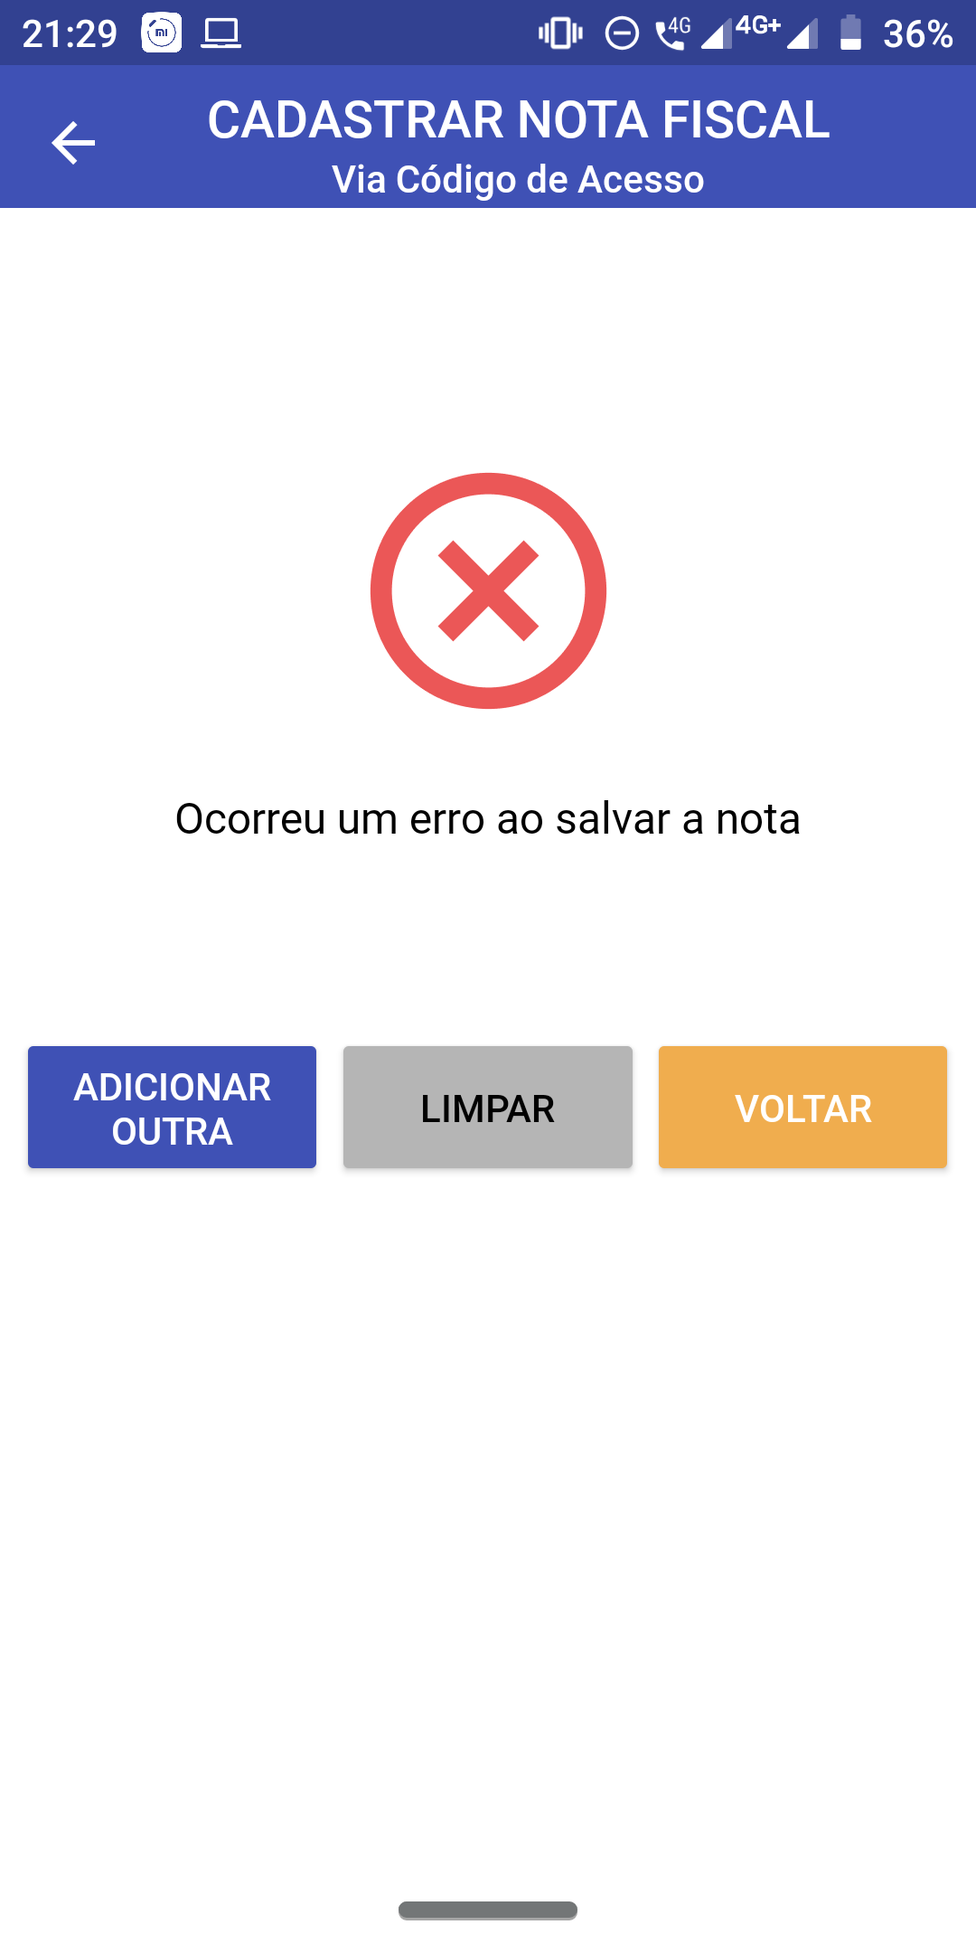
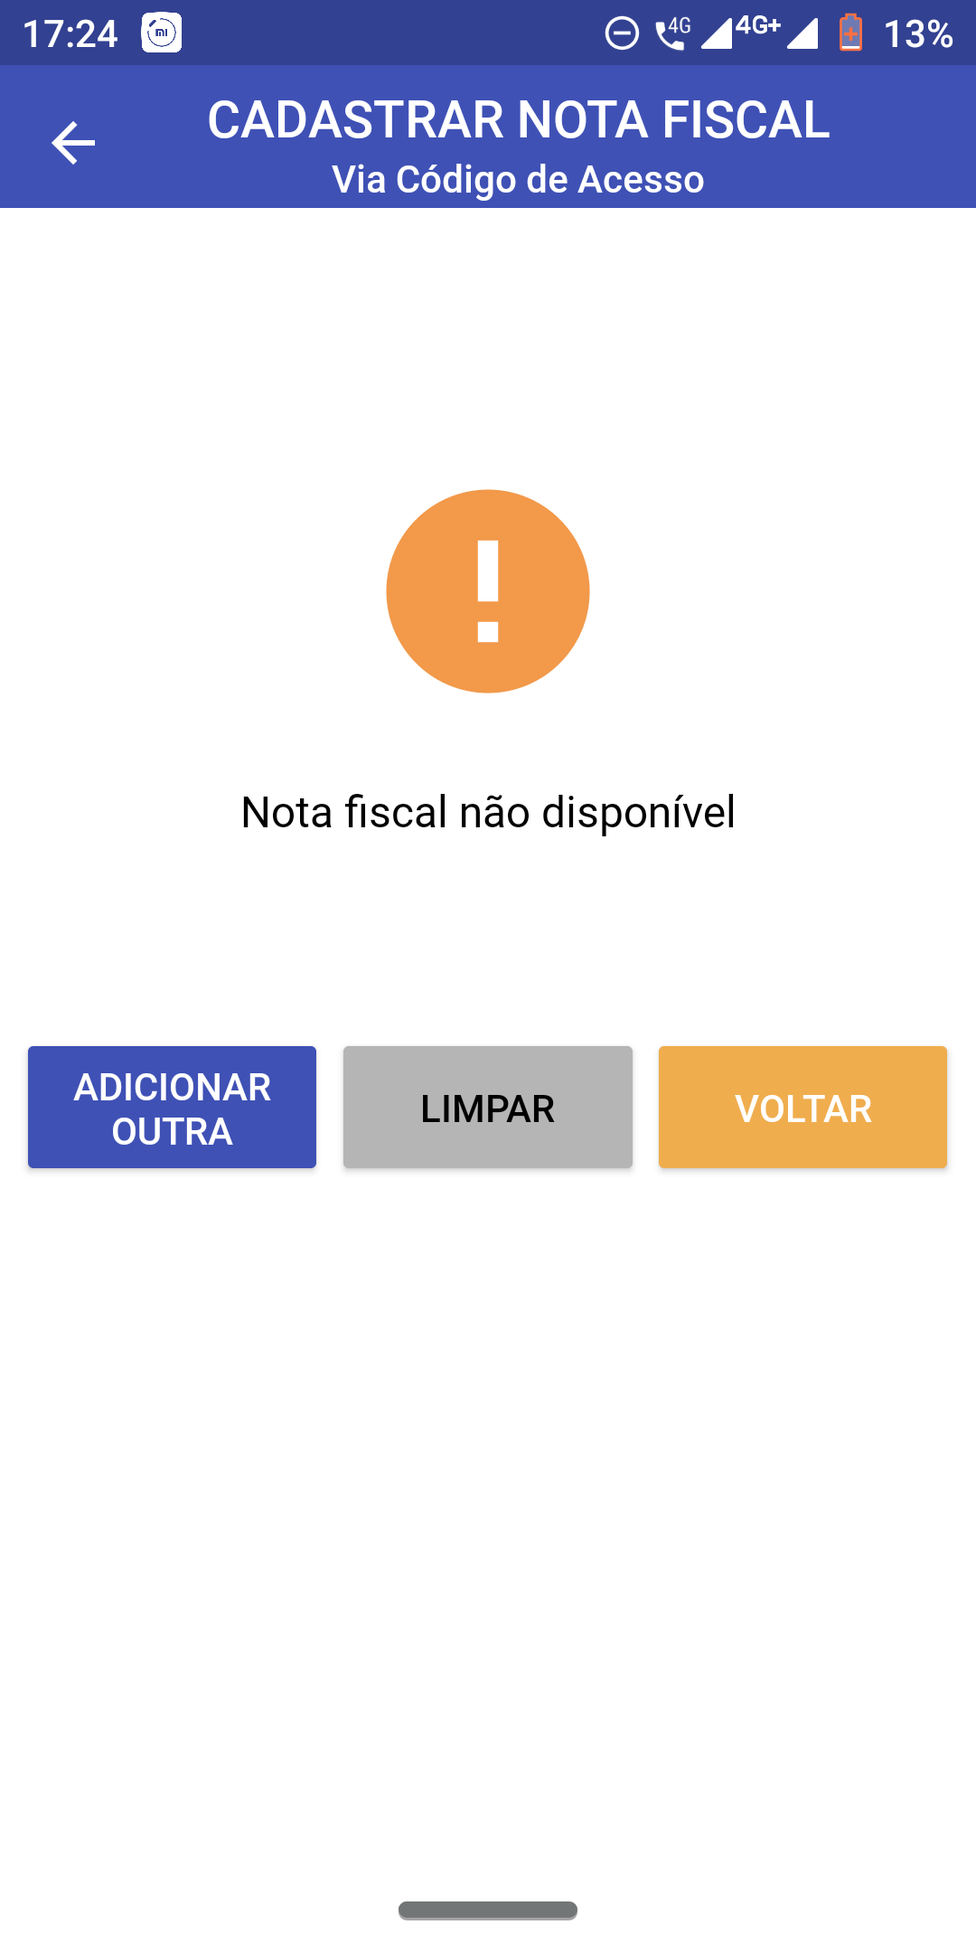
- Adição do esboço do capítulo 4.

diff --git a/tcc/cap4.tex b/tcc/cap4.tex
@@ -44,7 +44,7 @@ Embora não seja possível instalar a aplicação através das lojas oficiais da
     \label{appLoadingFig}
 \end{figure}
 
-A figura \ref{appLoadingFig} representa a primeira tela que o usuário obtém ao efetuar a abertura da aplicação, além disso, essa tela é mostrada para que os recursos mínimos necessários ao aplicativo possam ser carregados. Com isso, sempre que o app for inicializado mostrará essa tela. Caso o usuário saia e vá para outro aplicativo, essa tela não será mostrada pois os recursos ainda estão em memória, mas caso o usuário encerre a aplicação, na próxima vez que houver a abertura, será necessário novamente efetuar o carregamento, logo, a tela de carregamento inicial será novamente exibida.
+A figura \ref{appLoadingFig} representa a primeira tela que o usuário obtém ao efetuar a abertura da aplicação, além disso, essa tela é mostrada para que os recursos mínimos necessários ao aplicativo possam ser carregados em segundo plano. Com isso, sempre que o app for inicializado mostrará essa tela. Caso o usuário saia e vá para outro aplicativo, essa tela não será mostrada pois os recursos ainda estão em memória, mas caso o usuário encerre a aplicação, na próxima vez que houver a abertura, será necessário novamente efetuar o carregamento, logo, a tela de carregamento inicial será novamente exibida.
 
 % FIXME: Ajustar a imagem
 % FIXME: Adicionar referencia a imagem
@@ -67,7 +67,7 @@ O usuário poderá efetuar a adição das notas através de duas formas, a prime
 
 Dependendo da forma de adição desejada pelo usuário, o mesmo será redirecionado para outras telas que serão apresentadas logo abaixo.
 
-O meio mais rápido de adicionar é aquele que utiliza o QRCode, pois basta apontar a câmera no smartphone para o código que a leitura do mesmo será feita instantaneamente.
+O meio mais rápido de adicionar é aquele que utiliza o QRCode, pois basta apontar a câmera do smartphone para o código que a leitura do mesmo será feita instantaneamente.
 
 Caso ocorra problemas na leitura desse código, o usuário poderá tentar adicionar através do código de acesso. Esse meio é um pouco mais lento, pois além de inserir esse código de 44 dígitos, será necessário adicionar um código de verificação da solicitação, isto é, o código captcha.
 
@@ -77,15 +77,249 @@ Caso ocorra problemas na leitura desse código, o usuário poderá tentar adicio
 % FIXME: Adicionar referencia a imagem
 \begin{figure}[h]
     \centering
-    \includegraphics[scale=0.15]{tcc/figures/app/app_qrcode_solicitacao.png}
+    \includegraphics[scale=0.15]{tcc/figures/app/app_codigo_qrcode_solicitacao.png}
     \caption{Exemplo de adição de uma NFC-e real via uso do QRCode}
     \label{appQRCodeSolicitacaoFig}
 \end{figure}
 
+Um caso real de adição de uma nota fiscal é representando pela captura da tela do aplicativo no qual é demonstrado pela figura \ref{appQRCodeSolicitacaoFig}. Caso seja feita a detecção do QRCode, o conteúdo contido nesse código será processado e uma solicitação de adição será feita ao servidor.
+
+A latência gerada durante esse período de processamento, faz com seja necessário o uso de uma tela de carregamento. Com isso, é mostrado para o usuário uma barra de progresso que indica que a sua solicitação está sendo processada e o aplicativo continua executando normalmente.
+
+% FIXME: Ajustar a imagem
+% FIXME: Adicionar referencia a imagem
+\begin{figure}[h]
+    \centering
+    \includegraphics[scale=0.15]{tcc/figures/app/app_codigo_qrcode_loading.png}
+    \caption{Tela de cadastro via QRCode após solicitação}
+    \label{appQRCodeSolicitacaoFig}
+\end{figure}
+
+Após o processamento ter terminado, podendo ter sido com sucesso ou não, será enviado para o aplicativo uma resposta contendo o status da solicitação de adição realizada.
+
+Se o código tiver sido lido corretamente e se não houver nenhuma problema durante a solicitação da nota ao site da SEFAZ assim como também no processamento da nota, será mostrado uma mensagem de sucesso conforme pode ser observado na figura abaixo.
+
+% FIXME: Ajustar a imagem
+% FIXME: Adicionar referencia a imagem
+\begin{figure}[h]
+    \centering
+    \includegraphics[scale=0.15]{tcc/figures/app/app_codigo_qrcode_sucesso.png}
+    \caption{Tela de cadastro efetuado com sucesso}
+    \label{appQRCodeSucessoFig}
+\end{figure}
+
+\newpage
+Todavia, durante o processo de adição, pode ser que a nota ainda não esteja disponível no sistema da SEFAZ, com isso, é feito um tratamento de forma a detectar essa caso, com isso, o usuário será informado que a sua solicitação não foi concluída devido a nota ainda estar disponível em sua versão digital. A figura \ref{appQRCodeNaoDisponivelFig} representa esse caso.
+
+% FIXME: Ajustar a imagem
+% FIXME: Trocar por img equivalente do QRCODE
+% FIXME: Adicionar referencia a imagem
+\begin{figure}[h]
+    \centering
+    \includegraphics[scale=0.15]{tcc/figures/app/app_codigo_acesso_nao_disponivel.png}
+    \caption{Tela de nota não disponível}
+    \label{appQRCodeNaoDisponivelFig}
+\end{figure}
+
+\newpage
+Um outro caso que poderá ocorrer, é caso o usuário tente adicionar uma nota que já foi adicionada previamente. A solicitação ao sistema da SEFAZ será feita normalmente até a obtenção do código de acesso da NFC-e, que é um código único, de posse desse código, é feita uma pesquisa no banco de dados de forma a verificar a existência dessa nota nos registros. Caso a nota seja encontrada, será enviado ao aplicativo um código de erro indicando a existência dessa nota, com isso o usuário poderá visualizar a tela da figura \ref{appQRCodeJaCadastradaFig}. Para o caso contrário, em que a nota não é encontrada, seguirá com o fluxo normal.
+
+% FIXME: Ajustar a imagem
+% FIXME: Adicionar referencia a imagem
+\begin{figure}[h]
+    \centering
+    \includegraphics[scale=0.15]{tcc/figures/app/app_codigo_qrcode_ja_cadastrada.png}
+    \caption{Tela de nota já cadastrada previamente}
+    \label{appQRCodeJaCadastradaFig}
+\end{figure}
+
+\newpage
+Durante a solicitação, está suscetível a ocorrência de erros, que pode se dar devido a problemas com a rede, problema no sistema da SEFAZ entre outras inúmeras situações, diante desses erros inesperados, o usuário também é informado através de uma mensagem de erro genérica.
+
+% FIXME: Ajustar a imagem
+% FIXME: Adicionar referencia a imagem
+\begin{figure}[h]
+    \centering
+    \includegraphics[scale=0.15]{tcc/figures/app/app_codigo_qrcode_erro.png}
+    \caption{Tela apresentada após erro durante solicitação}
+    \label{appQRCodeErroFig}
+\end{figure}
+
+\newpage
+Em suma, vale destacar que, independente do caso, é apresentado ao usuário três opções, através de botões, após o término do processamento da solicitação. A primeira opção, representada pelo botão azul, permite ao usuário adicionar uma outra nota fiscal novamente através do uso do QRCode ou até mesmo tentar adicionar a mesma nota novamente caso tenha ocorrido erros. A opção do meio, isto é, pelo botão amarelo, permite que o usuário retorne para a tela inicial. Por fim, o último botão, representa um atalho para adição através do uso do código de acesso.
+
 \subsubsection{Através de Código de Acesso}
+
+Se durante o processo de impressão NFC-e ocorrer problemas e o QRCode não ficar nítido ou apresentar falhas, o aplicativo está propenso a não conseguir efetuar a leitura correta da informação presente nesse código. Para contornar esse problema, é oferecida uma outra forma de adição de notas através de uma outra informação presente na mesma, isto é, através do código de acesso.
+
+\newpage
+% FIXME: Ajustar a imagem
+% FIXME: Adicionar referencia a imagem
+\begin{figure}[h]
+    \centering
+    \includegraphics[scale=0.15]{tcc/figures/app/app_codigo_acesso.png}
+    \caption{Tela inicial do cadastro via código de acesso}
+    \label{appCodigoAcessoInicialFig}
+\end{figure}
+
+A figura \ref{appCodigoAcessoInicialFig} representa a tela inicial de cadastro efetuado através do uso do código de acesso. O primeiro campo é para a inserção do código que é necessário para solicitação. Abaixo desse campo, encontram-se os botões para a interação do usuário. O primeiro botão, em azul, é para a inicialização do processo de adição. Caso o usuário não insira a quantidade necessária de dígitos, o sistema irá notificará o usuário sobre esse problema. O botão do meio, em branco, permite a limpeza total do texto inserido. Por último, o botão mais à direita serve como atalho para o usuário retornar à tela inicial.
+
+\newpage
+% FIXME: Ajustar a imagem
+% FIXME: Adicionar referencia a imagem
+\begin{figure}[h]
+    \centering
+    \includegraphics[scale=0.15]{tcc/figures/app/app_codigo_acesso_com_codigo.png}
+    \caption{Tela de cadastro via código de acesso com código inserido}
+    \label{appCodigoAcessoComCodigoFig}
+\end{figure}
+
+% FIXME: Ajustar a imagem
+% FIXME: Adicionar referencia a imagem
+\begin{figure}[h]
+    \centering
+    \includegraphics[scale=0.15]{tcc/figures/app/app_codigo_acesso_loading.png}
+    \caption{Tela de cadastro via código de acesso com carregamento}
+    \label{appCodigoAcessoCarregamentoCaptchaFig}
+\end{figure}
+
+\newpage
+Após a inserção do código de acesso e o usuário ter pressionado o botão de adicionar, será mostrado um código captcha para validação da requisição. Esse código é necessário para comprovação que a solicitação é proveniente de interação humana e não foi feita por sistemas automáticos. Essa validação pertence ao sistema da SEFAZ e o aplicativo simplesmente replica a mesma imagem utilizada por esse sistema para que a solicitação efetuada no site possa ser simulada. Como essa imagem precisa ser transferida para o aplicativo, uma barra de progresso é exibida até que a imagem seja baixada em sua totalidade conforme é explicitado pela Figura \ref{appCodigoAcessoCarregamentoCaptchaFig}. Além da imagem representativa desse código de validação, um campo destinado a inserção do texto referente a essa mesma imagem são acrescentados à tela anterior. A figura \ref{appCodigoAcessoCaptchaFig} exemplifica esse fluxo descrito.
+
+Vale destacar, que os mesmos botões disponíveis na tela anterior (Figura \ref{appCodigoAcessoComCodigoFig}) ainda estão presentes, todavia, o botão de adicionar deverá ser utilizado após a inserção do texto referente ao código captcha, já o botão limpar serve para limpeza do campo destinado a inserção desse mesmo texto.
+
+\newpage
+% FIXME: Ajustar a imagem
+% FIXME: Adicionar referencia a imagem
+\begin{figure}[h]
+    \centering
+    \includegraphics[scale=0.15]{tcc/figures/app/app_codigo_acesso_captcha.png}
+    \caption{Tela de cadastro solicitando código captcha para validação da requisição}
+    \label{appCodigoAcessoCaptchaFig}
+\end{figure}
+
+Assim como ocorre com o cadastro via QRCode, até o término do processamento dos dados irá levar alguns segundos, com isso, uma tela com uma barra de progresso também é exibida até o resultado da solicitação ser retornado ao aplicativo.
+
+\newpage
+% FIXME: Ajustar a imagem
+% FIXME: Adicionar referencia a imagem
+\begin{figure}[h]
+    \centering
+    \includegraphics[scale=0.15]{tcc/figures/app/app_codigo_acesso_loading_solicitacao.png}
+    \caption{Tela de cadastro via código de acesso após solicitação}
+    \label{appCodigoAcessoLoadingSolicitacaoFig}
+\end{figure}
+
+Ao receber a resposta, o aplicativo irá mostrar diferentes telas dependendo do que resultado obtido. As telas são semelhantes ao serem comparadas com o outro método de adição de notas. No entanto, a principal diferença é que as telas para esse tipo de adição, os botões são diferentes. A primeira opção, também em azul, permite adicionar outra nota também por meio do código de acesso. O botão do meio, de limpar, é exibido bloqueado pois não existem campos de inserção de dados nessa parte de resultados. Por fim, o último botão, em amarelo, permite que o usuário retorne para a tela inicial da aplicação.
+
+\newpage
+% FIXME: Ajustar a imagem
+% FIXME: Adicionar referencia a imagem
+\begin{figure}[h]
+    \centering
+    \includegraphics[scale=0.15]{tcc/figures/app/app_codigo_acesso_sucesso.png}
+    \caption{Tela de cadastramento via código de acesso efetuado com sucesso}
+    \label{appCodigoAcessoSucessoFig}
+\end{figure}
+
+\newpage
+% FIXME: Ajustar a imagem
+% FIXME: Adicionar referencia a imagem
+\begin{figure}[h]
+    \centering
+    \includegraphics[scale=0.15]{tcc/figures/app/app_codigo_acesso_ja_cadastrada.png}
+    \caption{Tela de cadastramento via código de acesso de uma nota cadastrada previamente}
+    \label{appCodigoAcessoJaCadastradaFig}
+\end{figure}
+
+\newpage
+% FIXME: Ajustar a imagem
+% FIXME: Adicionar referencia a imagem
+\begin{figure}[h]
+    \centering
+    \includegraphics[scale=0.15]{tcc/figures/app/app_codigo_acesso_nao_disponivel.png}
+    \caption{Tela de cadastramento via código de acesso de uma nota não disponível}
+    \label{appCodigoAcessoNaoDisponivelFig}
+\end{figure}
+
+\newpage
+% FIXME: Ajustar a imagem
+% FIXME: Adicionar referencia a imagem
+\begin{figure}[h]
+    \centering
+    \includegraphics[scale=0.15]{tcc/figures/app/app_codigo_acesso_erro_generico.png}
+    \caption{Tela de cadastramento via código de acesso após erro durante solicitação}
+    \label{appCodigoAcessoErroFig}
+\end{figure}
+
+\newpage
+% FIXME: Ajustar a imagem
+% FIXME: Adicionar referencia a imagem
+\begin{figure}[h]
+    \centering
+    \includegraphics[scale=0.15]{tcc/figures/app/app_codigo_acesso_erro_captcha.png}
+    \caption{Tela de cadastramento via código de acesso após inserção de código captcha inválido}
+    \label{appCodigoAcessoErroCaptchaFig}
+\end{figure}
+
+\newpage
+Existe uma tela diferente das demais quando comparado aos resultados do cadastro via QRCode, é que devido a presença do campo para inserção do código captcha deverá ter um tratamento para o erro caso o usuário tenha inserido um texto diferente daquele presente na imagem.
 
 \subsection{Busca de Produtos}
 
+Ao clicar no último botão da tela inicial, conforme visto na figura \ref{appHomeFig}, o usuário será encaminhado para a tela de busca de produtos. É através dessa tela que os usuários poderão consultar a informação referente aos produtos desejados cadastrados previamente. A tela em questão é apresentada pela figura \ref{appBuscaProdutosInicialFig}.
+
+% FIXME: Ajustar a imagem
+% FIXME: Adicionar referencia a imagem
+\begin{figure}[h]
+    \centering
+    \includegraphics[scale=0.15]{tcc/figures/app/app_buscar_produtos.png}
+    \caption{Tela para a realização da busca de produtos}
+    \label{appBuscaProdutosInicialFig}
+\end{figure}
+
+Logo no início da tela, consta o campo que será utilizado para a inserção do texto referente aos nomes dos produtos. Ao lado esquerdo do campo, existe um ícone no formato de uma lupa que permitirá que o usuário clique para a realização da busca.
+
+Abaixo do campo de texto, existe uma caixa de seleção para que o usuário consulte as cidades disponíveis para busca. Os nomes das cidades são recuperados a partir das notas que foram cadastradas previamente. Além disso, é permitido ao usuário escolher a opção de efetuar a busca em todas as cidades. A figura \ref{appBuscaProdutosCidadesFig} demonstra um exemplo de cidades disponíveis na caixa de seleção para a busca dos produtos.
+
+No meio da tela, constará informações para auxílio ao usuário, como pode ser observado na figura \ref{appBuscaProdutosInicialFig}, consta uma breve instrução de como o usuário deve efetuar sua busca. Ademais, caso o produto buscado não seja encontrado na base de dados, nessa mesma área será mostrada a mensagem que os produtos não foram localizados.
+
+% FIXME: Ajustar a imagem
+% FIXME: Adicionar referencia a imagem
+\begin{figure}[h]
+    \centering
+    \includegraphics[scale=0.15]{tcc/figures/app/app_buscar_produtos_cidades.png}
+    \caption{Exemplo de cidades disponíveis para busca de produtos}
+    \label{appBuscaProdutosCidadesFig}
+\end{figure}
+
+% FIXME: Ajustar a imagem
+% FIXME: Adicionar referencia a imagem
+\begin{figure}[h]
+    \centering
+    \includegraphics[scale=0.15]{tcc/figures/app/app_buscar_produtos_busca.png}
+    \caption{Resultado de uma busca de um produto}
+    \label{appBuscaProdutosBuscaResultadoFig}
+\end{figure}
+
+Após a escolha da cidade em que será efetuada a busca, o usuário deverá inserir no campo de texto dedicado o nome do produto que deseja buscar. Vale destacar que o usuário poderá inserir o texto escrito corretamente ou sem totalmente sem acentuação, até mesmo com todas as letras em maiúsculo que será retornado o mesmo resultado caso o usuário tivesse escrito corretamente.
+
+\newpage
+Um exemplo de uma busca pelo produto "Leite" é mostrada na figura \ref{appBuscaProdutosBuscaResultadoFig}. Como pode ser observado foram retornados dois registros para esse mesmo produto. Nessa busca, foram encontrados o mesmo produto no entanto de marcas diferentes, além disso, é possível efetuar uma comparação de preços, como também em que dia foi efetuada a compra dos mesmos.
+
+Vale destacar que ambos os produtos foram comprados no mesmo supermercado, no entanto, o nome aparece cortado devido a uma limitação da largura do dispositivo utilizado para efetuar a captura da tela. No entanto, como o nome do mercado pode ser uma cadeia longa de caracteres, esse problema pode ser contornado pois é fornecido uma opção do usuário visualizar as informações completas referentes ao registros individuais dos produtos, para isso, basta que efetuar um clique no campo referente ao produto que uma pop-up surgirá em tela contando com as mesmas informações fornecidas anteriormente, no entanto, 
+como é possível ocupar a maior parte do espaço disponível em tela, será possível visualizar todas as informações que foram ocultadas anteriormente. Além do nome do local da compra, o próprio nome do produto poderá ser cortado caso esse também seja extenso. Por fim, um exemplo desse solução descrita anteriormente pode ser observada na figura \ref{appBuscaProdutosProdutoAmpliadoFig}.
+
+% FIXME: Ajustar a imagem
+% FIXME: Adicionar referencia a imagem
+\begin{figure}[h]
+    \centering
+    \includegraphics[scale=0.15]{tcc/figures/app/app_buscar_produtos_produto.png}
+    \caption{Exemplo de um produto com suas informações disponibilizadas em uma pop-up.}
+    \label{appBuscaProdutosProdutoAmpliadoFig}
+\end{figure}
+
+% TODO: Vincular com seção de dados compartilhados?
 
 \section{Prós e Contras do Desenvolvimento}
 
@@ -103,6 +337,15 @@ Caso ocorra problemas na leitura desse código, o usuário poderá tentar adicio
 % Já foi falado no Cap3
 
 \section{Trabalhos Futuros}
+
+Embora o aplicativo tenha atingido o objetivo principal, que era o cadastro das notas fiscais e a recuperação do preços dos produtos contidos nas mesmas, novas funcionalidades podem ser incluídas de forma a melhorar ainda mais a experiência do usuário e facilitar mais ainda o cotidiano dos cidadãos. Como por exemplo, pode ser adicionado o suporte ao sistema de outros estados fazendo com que mais brasileiros possam utilizar o aplicativo não ficando limitado somente à população do Estado do Rio de Janeiro.
+
+Além disso, melhorias poderão ser realizadas durante o processo de leitura do QRCode, isto é, uma vez que possa ser impresso em uma qualidade ruim poderá ocasionar problemas durante a leitura fazendo com não seja realizada com sucesso, com isso, pode ser efetuada uma pós-processamento da imagem a partir de um determinado tempo para que ainda seja possível a adição da nota sem a necessidade de digitação de textos.
+
+Ainda durante o processo de leitura do QRCode, se após o processamento da imagem não for possível concluir a leitura e a obtenção da informação, poderá ser oferecido ao usuário a opção de adição através do código de acesso automaticamente caso o aplicativo detecte que há uma demora para efetuar a leitura.
+
+Por fim, uma outra melhoria que poderá ser implementada é uma outra forma de notificação ao usuário que sua nota foi processada fazendo que o mesmo possa utilizar outros aplicativos não sendo mais necessário permanecer com uma das telas de cadastro abertas aguardando a resposta. Com isso, poderá ser adicionada mais de uma nota por vez, o que melhorá ainda mais a serventia do projeto.
+
 %Registros do usuário;
 %Monitorar para diferentes mercados, produtos e cidades;
 

diff --git a/tcc/cap3.tex b/tcc/cap3.tex
@@ -72,7 +72,7 @@ Esse conteúdo é armazendao em um banco de dados e o tipo utilizado pela aplica
 
 Além disso, esse tipo de banco é altamente escalável, isto é, caso seja necessário mais espaço para o armazenamento dos dados, o conteúdo pode ser distribuído em diversas máquinas sem afetar o desempenho geral da aplicação.
 
-\subsection{Justificativa do uso de Armazenamento Remoto e os Dados compartilhados}
+\subsection{Justificativa do uso de Armazenamento Remoto e Dados Compartilhados}
 
 Os dados provenientes do processamento das notas fiscais poderiam ser armazenados nos celulares dos usuários do aplicativo, o que resultaria no consumo de espaço de armazenamento que é também compartilhado com outros aplicativo e o sistema operacional do aparelho móvel. Embora seja uma alternativa viável para o cliente, e possivelmente rápida, uma vez que a recuperação não sofrerá latência de rede, a longo prazo talvez não seja considerada muito atrativa. A justificativa dessa afirmação é o fato de que para cada nota adicionada uma parcela do armazenamento é consumida, ademais, não existe uma rotina de limpeza dos dados mais antigos.
 
